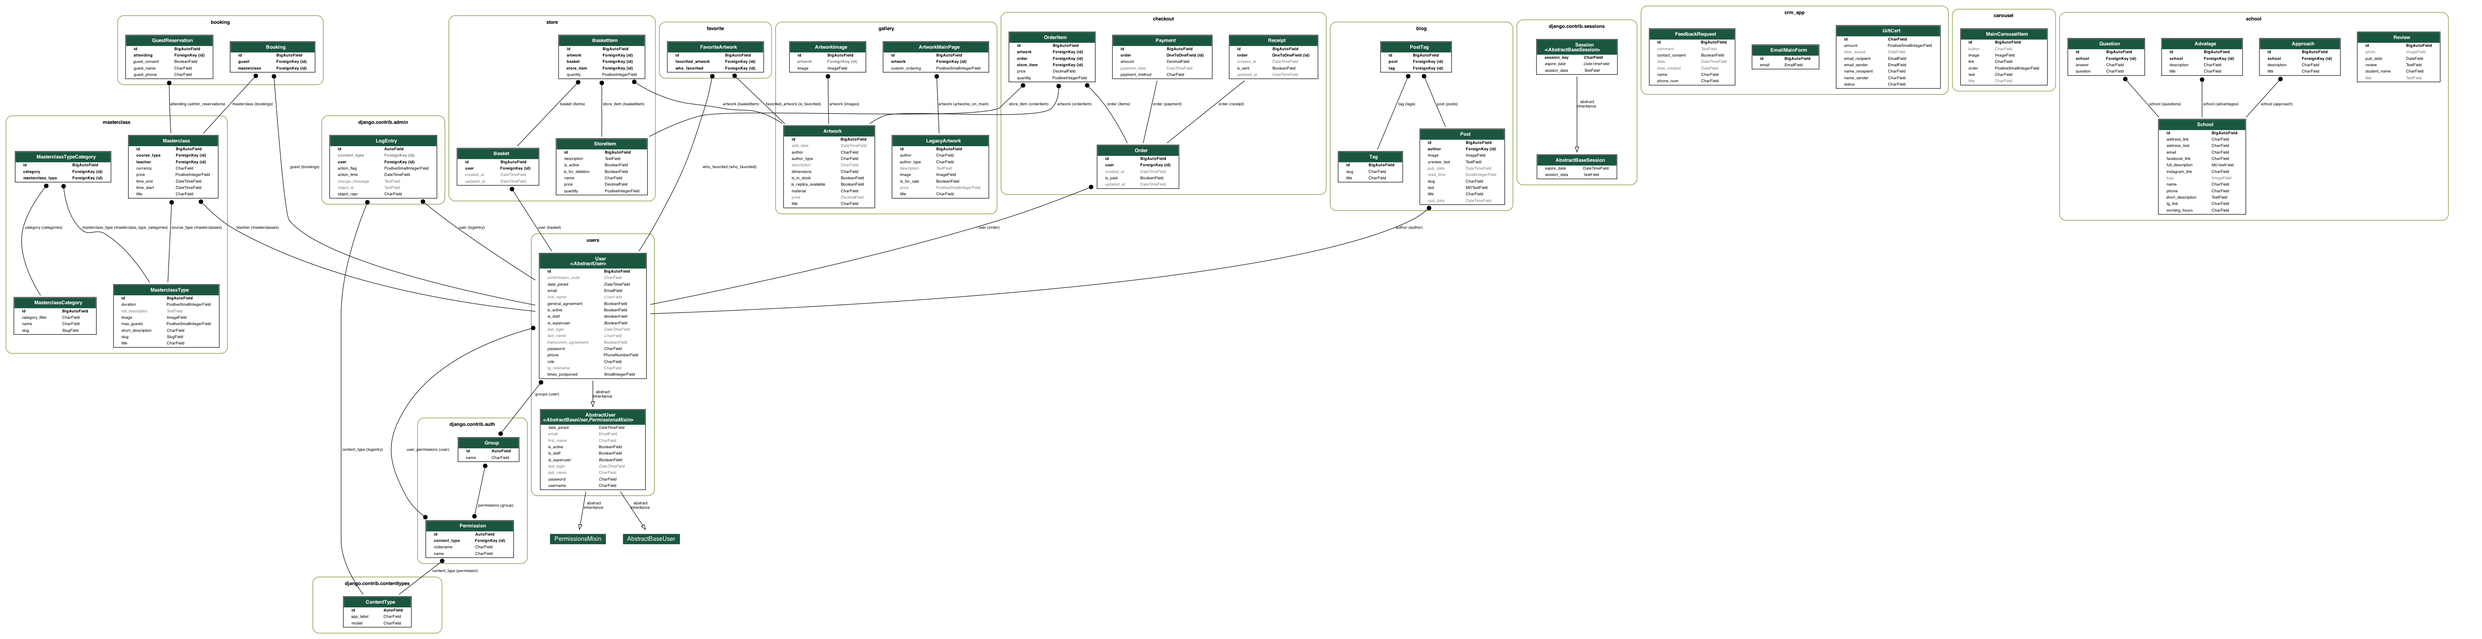
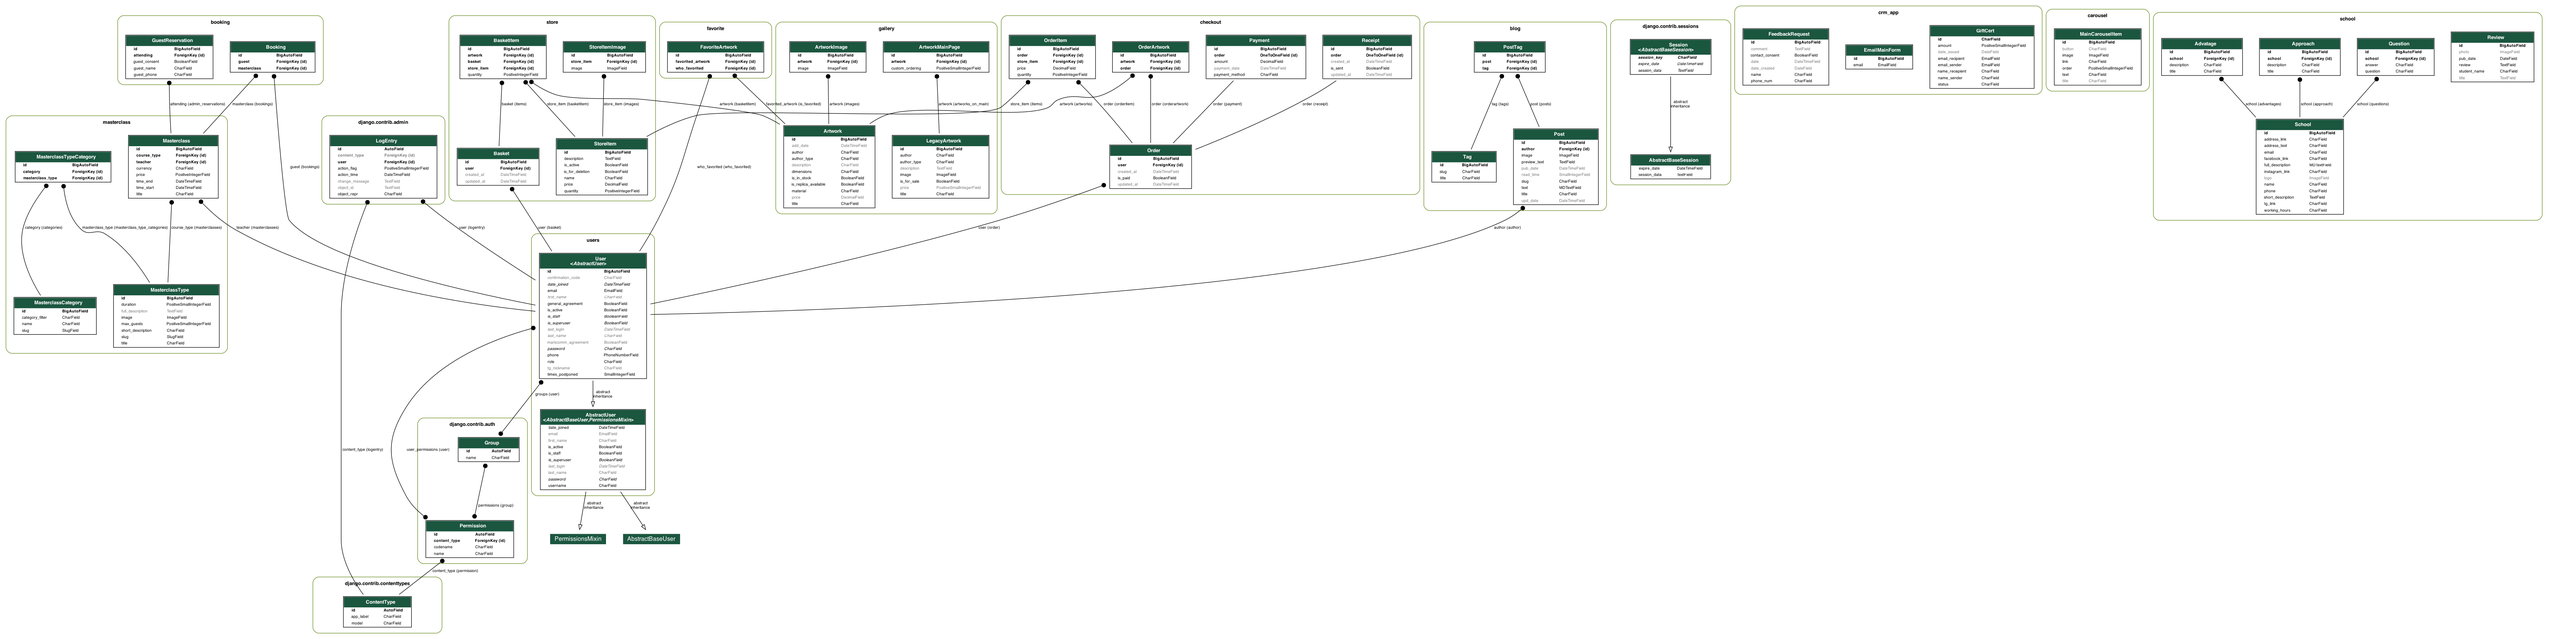
add admin logging middleware

diff --git a/mosaic_backend/checkout/migrations/0002_remove_orderitem_artwork_order_item_and_more.py b/mosaic_backend/checkout/migrations/0002_remove_orderitem_artwork_order_item_and_more.py
@@ -1,0 +1,77 @@
+# Generated by Django 5.0.1 on 2024-12-04 18:35
+
+import django.db.models.deletion
+from django.db import migrations, models
+
+
+class Migration(migrations.Migration):
+    dependencies = [
+        ("checkout", "0001_initial"),
+        ("gallery", "0007_alter_artworkimage_artwork"),
+        ("store", "0003_alter_storeitemimage_store_item"),
+    ]
+
+    operations = [
+        migrations.RemoveField(
+            model_name="orderitem",
+            name="artwork",
+        ),
+        migrations.AddField(
+            model_name="order",
+            name="item",
+            field=models.ManyToManyField(
+                through="checkout.OrderItem", to="store.storeitem"
+            ),
+        ),
+        migrations.AlterField(
+            model_name="orderitem",
+            name="order",
+            field=models.ForeignKey(
+                on_delete=django.db.models.deletion.CASCADE, to="checkout.order"
+            ),
+        ),
+        migrations.AlterField(
+            model_name="orderitem",
+            name="store_item",
+            field=models.ForeignKey(
+                on_delete=django.db.models.deletion.CASCADE,
+                related_name="items",
+                to="store.storeitem",
+            ),
+        ),
+        migrations.CreateModel(
+            name="OrderArtwork",
+            fields=[
+                (
+                    "id",
+                    models.BigAutoField(
+                        auto_created=True,
+                        primary_key=True,
+                        serialize=False,
+                        verbose_name="ID",
+                    ),
+                ),
+                (
+                    "artwork",
+                    models.ForeignKey(
+                        on_delete=django.db.models.deletion.CASCADE,
+                        related_name="artworks",
+                        to="gallery.artwork",
+                    ),
+                ),
+                (
+                    "order",
+                    models.ForeignKey(
+                        on_delete=django.db.models.deletion.CASCADE, to="checkout.order"
+                    ),
+                ),
+            ],
+        ),
+        migrations.AddField(
+            model_name="order",
+            name="artwork",
+            field=models.ManyToManyField(
+                through="checkout.OrderArtwork", to="gallery.artwork"
+            ),
+        ),
+    ]

diff --git a/mosaic_backend/mosaic/settings.py b/mosaic_backend/mosaic/settings.py
@@ -10,12 +10,6 @@ BASE_DIR = Path(__file__).resolve().parent.parent
 DEBUG = True
 
 load_dotenv(os.path.join(BASE_DIR.parent, 'infra', '.env'))
-log_file = os.path.join(BASE_DIR, 'logs.txt')
-logging.basicConfig(filename=log_file, level=logging.DEBUG,
-                    format='%(asctime)s %(levelname)s %(message)s')
-
-log = logging.getLogger(__name__)
-
 
 KEY_ENV = os.getenv('SECRET_KEY')
 SECRET_KEY = f'{KEY_ENV}'
@@ -66,6 +60,7 @@ MIDDLEWARE = [
     'django.contrib.messages.middleware.MessageMiddleware',
     'django.middleware.clickjacking.XFrameOptionsMiddleware',
     'drf_api_logger.middleware.api_logger_middleware.APILoggerMiddleware',
+    'users.middleware.AdminAuthLoggingMiddleware',
 ]
 
 
@@ -253,14 +248,25 @@ LOGGING = {
             'class': 'logging.StreamHandler',
             'formatter': 'simple',
         },
+        'file': {
+            'level': LOGLEVEL,
+            'class': 'logging.FileHandler',
+            'formatter': 'verbose',
+            'filename': os.path.join(BASE_DIR, 'logs', 'django.log'),
+        },
         'django.server': DEFAULT_LOGGING['handlers']['django.server'],
     },
     'loggers': {
         '': {
             'level': LOGLEVEL,
-            'handlers': ['console', ],
+            'handlers': ['console', 'file'],
         },
         'django.server': DEFAULT_LOGGING['loggers']['django.server'],
+        'users.middleware': {
+            'level': 'DEBUG',
+            'handlers': ['console', 'file'],
+            'propagate': False,
+        },
     }
 }
 
@@ -269,5 +275,3 @@ GRAPH_MODELS = {
     'all_applications': True,
     'group_models': True,
 }
-
-# FILE_UPLOAD_MAX_MEMORY_SIZE = 10

diff --git a/mosaic_backend/checkout/models.py b/mosaic_backend/checkout/models.py
@@ -12,6 +12,8 @@ class Order(models.Model):
     created_at = models.DateTimeField(auto_now_add=True)
     updated_at = models.DateTimeField(auto_now=True)
     is_paid = models.BooleanField(default=False)
+    item = models.ManyToManyField(StoreItem, through='OrderItem')
+    artwork = models.ManyToManyField(Artwork, through='OrderArtwork')
 
     def __str__(self):
         return f'Order {self.id} by {self.user.username}'
@@ -19,14 +21,22 @@ class Order(models.Model):
 
 class OrderItem(models.Model):
     order = models.ForeignKey(
-        Order, related_name='items', on_delete=models.CASCADE)
-    artwork = models.ForeignKey(Artwork, on_delete=models.CASCADE)
-    store_item = models.ForeignKey(StoreItem, on_delete=models.CASCADE)
+        Order, on_delete=models.CASCADE)
+    # artwork = models.ForeignKey(Artwork, on_delete=models.CASCADE)
+    store_item = models.ForeignKey(StoreItem,
+                                   related_name='items',
+                                   on_delete=models.CASCADE)
     quantity = models.PositiveIntegerField(default=1)
     price = models.DecimalField(max_digits=10, decimal_places=2)
 
     def __str__(self):
         return f'{self.quantity} x {self.artwork.title}'
+
+
+class OrderArtwork(models.Model):
+    order = models.ForeignKey(Order, on_delete=models.CASCADE)
+    artwork = models.ForeignKey(Artwork, related_name='artworks',
+                                on_delete=models.CASCADE)
 
 
 class Payment(models.Model):

diff --git a/mosaic_backend/users/middleware.py b/mosaic_backend/users/middleware.py
@@ -1,0 +1,19 @@
+import logging
+from django.contrib.auth import authenticate
+from django.utils.deprecation import MiddlewareMixin
+
+log = logging.getLogger(__name__)
+
+
+class AdminAuthLoggingMiddleware(MiddlewareMixin):
+    def process_request(self, request):
+        if request.path == '/admin/login/' and request.method == 'POST':
+            username = request.POST.get('username')
+            password = request.POST.get('password')
+            user = authenticate(request, username=username, password=password)
+            if user is not None:
+                log.info(
+                    f"Admin login attempt: SUCCESS for user {username}")
+            else:
+                log.warning(
+                    f"Admin login attempt: FAILED for user {username}")

diff --git a/mosaic_backend/store/models.py b/mosaic_backend/store/models.py
@@ -58,6 +58,8 @@ class StoreItemImage(models.Model):
 
 class Basket(models.Model):
     user = models.ForeignKey(User, on_delete=models.CASCADE)
+    item = models.ForeignKey(
+        StoreItem, on_delete=models.CASCADE)
     created_at = models.DateTimeField(auto_now_add=True)
     updated_at = models.DateTimeField(auto_now=True)
 
